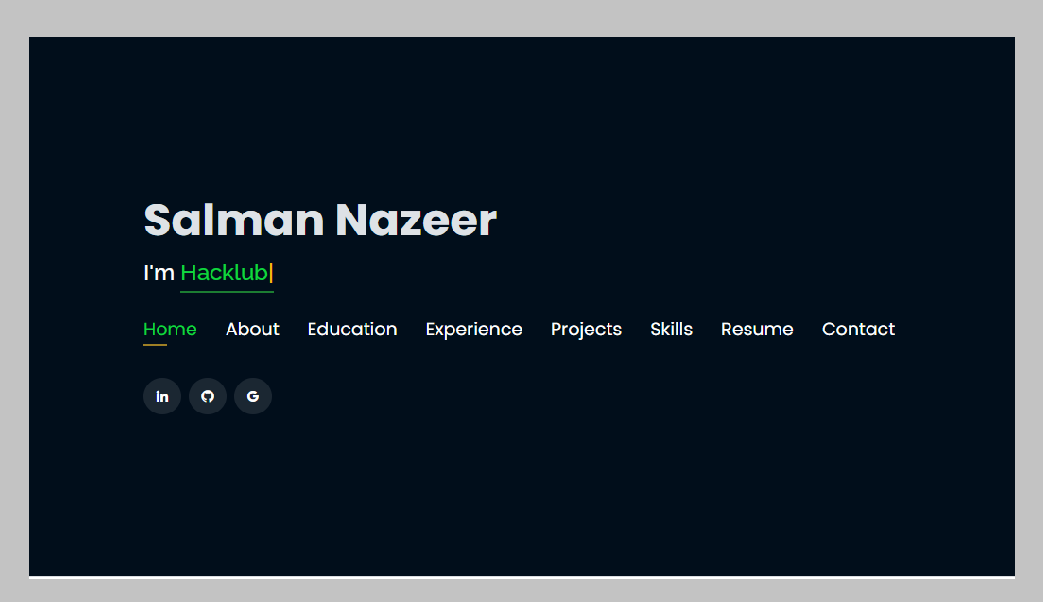
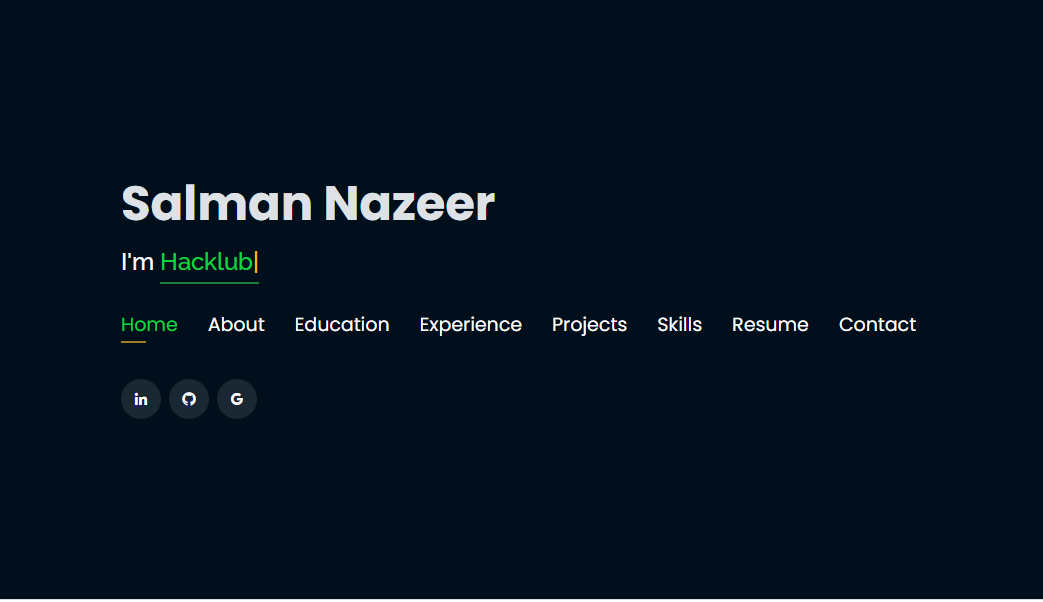
updated index to try to make mobile friendly

diff --git a/index.html b/index.html
@@ -100,10 +100,10 @@
       </div>
 
       <div class="row">
-        <div class="col-lg-4" data-aos="fade-right">
-          <img src="assets/img/salman.jpeg" class="img-fluid" alt="">
+        <div class="col-lg-3" data-aos="fade-right">
+          <img src="assets/img/salman.jpeg" class="img-fluid" alt="" style="width: 100%;">
         </div>
-        <div class="col-lg-8 pt-4 pt-lg-0 content" data-aos="fade-left">
+        <div class="col-lg-9 pt-4 pt-lg-0 content" data-aos="fade-left">
           <p>Focused and enthusiastic student with a keen interest in learning and coding. Loves experimenting with code to 
             discover features.
             Is a passionate individual who thrives to learn more about the world of computers.
@@ -178,7 +178,7 @@
 
 
             <div class="col-md-4 mt-4 mt-md-0 icon-box" data-aos="fade-up" data-aos-delay="100" style="padding:0px 0px;padding-bottom: 5px;display: inline-block;">
-              <img src="assets/img/education/kmea.jpg" class="img-fluid" alt="">
+              <img src="assets/img/education/kmea.jpg" class="img-fluid" alt="" style="width: 100%;">
               <h4 style="text-align:left;"><a href="http://kmeacollege.ac.in/" target="_blank" style="color:#ffffff">KMEA College of Engineering</a><br> </h4> 
               <p style="text-align:left;color:#fff;padding: 5px 10px;"><em>B.tech in Computer Science</em></p>
               <h5 style="text-align:left;padding: 0px 10px;">December 2020 - Present</h5>
@@ -200,7 +200,7 @@
 
          <div class="col-lg-4 col-md-6 portfolio-item filter-app" style="position: absolute; left: 0px; top: 0px;">
           <div class="portfolio-wrap">
-            <img src="assets/img/certification/html.jpg" class="img-fluid" alt="">
+            <img src="assets/img/certification/html.jpg" class="img-fluid" alt="" style="width: 100%;">
             <div class="portfolio-info">
               <h4>[Sololearn | HTML]</h4>
               <div class="portfolio-links">
@@ -212,7 +212,7 @@
 
         <div class="col-lg-4 col-md-6 portfolio-item filter-app" style="position: absolute; left: 370px; top: 0px;">
           <div class="portfolio-wrap">
-            <img src="assets/img/certification/c.jpg" class="img-fluid" alt="">
+            <img src="assets/img/certification/c.jpg" class="img-fluid" alt="" style="width: 100%;">
             <div class="portfolio-info">
               <h4>[Sololearn | C]</h4>
               <div class="portfolio-links">
@@ -224,7 +224,7 @@
 
         <div class="col-lg-4 col-md-6 portfolio-item filter-app" style="position: absolute; left: 740px; top: 0px;">
           <div class="portfolio-wrap">
-            <img src="assets/img/certification/c++.jpg" class="img-fluid" alt="">
+            <img src="assets/img/certification/c++.jpg" class="img-fluid" alt="" style="width: 100%;">
             <div class="portfolio-info">
               <h4>[Sololearn | C++]</h4>
               <div class="portfolio-links">
@@ -236,7 +236,7 @@
 
         <div class="col-lg-4 col-md-6 portfolio-item filter-project" style="position: absolute; left: 0px; top: 218.875px;">
           <div class="portfolio-wrap">
-            <img src="assets/img/certification/sql.jpg" class="img-fluid" alt="">
+            <img src="assets/img/certification/sql.jpg" class="img-fluid" alt="" style="width: 100%;">
             <div class="portfolio-info">
               <h4>[Sololearn | SQL]</h4>
               <div class="portfolio-links">
@@ -271,7 +271,7 @@
                 <h5 style="text-align:left;"></h5>
                 <p style="text-align:left;color:#fff"><em> </em></p>
                 <ul style="text-align:left;">
-                  <p>As of now I dont have any work experience</p>
+                  <p>Fresher</p>
                 </ul>
               </div>
             </div>
@@ -307,11 +307,11 @@
         <div class="col-lg-4 col-md-6 portfolio-item filter-app">
           <center><h4>Portfolio Website</h4></center>
           <div class="portfolio-wrap">
-            <img src="assets/img/project/portfolio.png" class="img-fluid" alt="">
+            <img src="assets/img/project/portfolio.png" class="img-fluid" alt="" style="width: 100%;">
             <div class="portfolio-info">
               
               <div class="portfolio-links">
-                <a href="..html" data-gall="portfolioDetailsGallery" data-vbtype="iframe" class="venobox" title="Project Details"><i class="bx bx-info-circle"></i></a>
+                <a href="salmanselu.github.io" data-gall="portfolioDetailsGallery" data-vbtype="iframe" class="venobox" title="Project Details"><i class="bx bx-info-circle"></i></a>
               </div>
             </div>
           </div>
